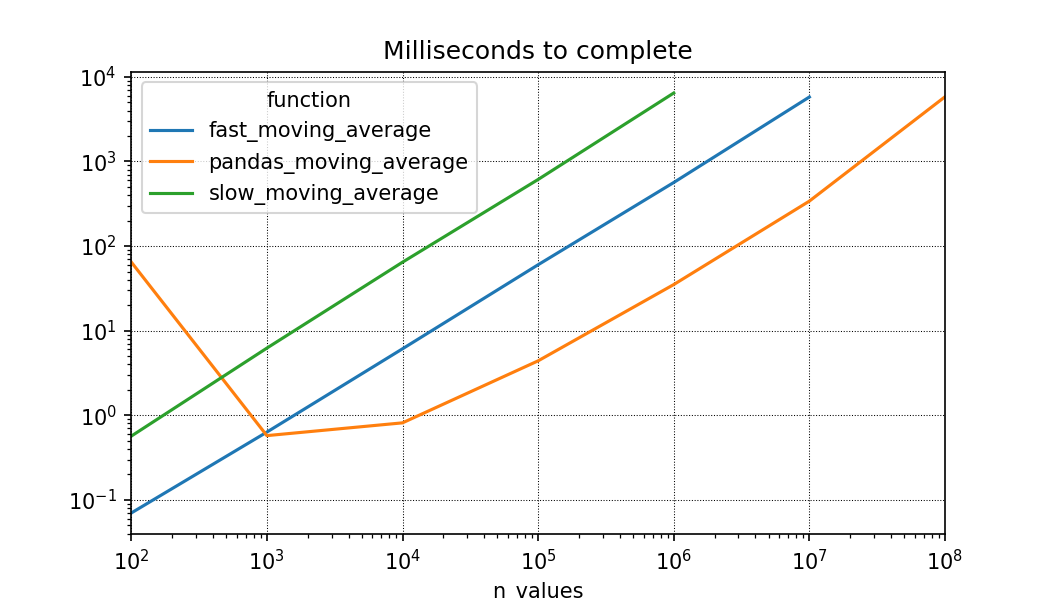
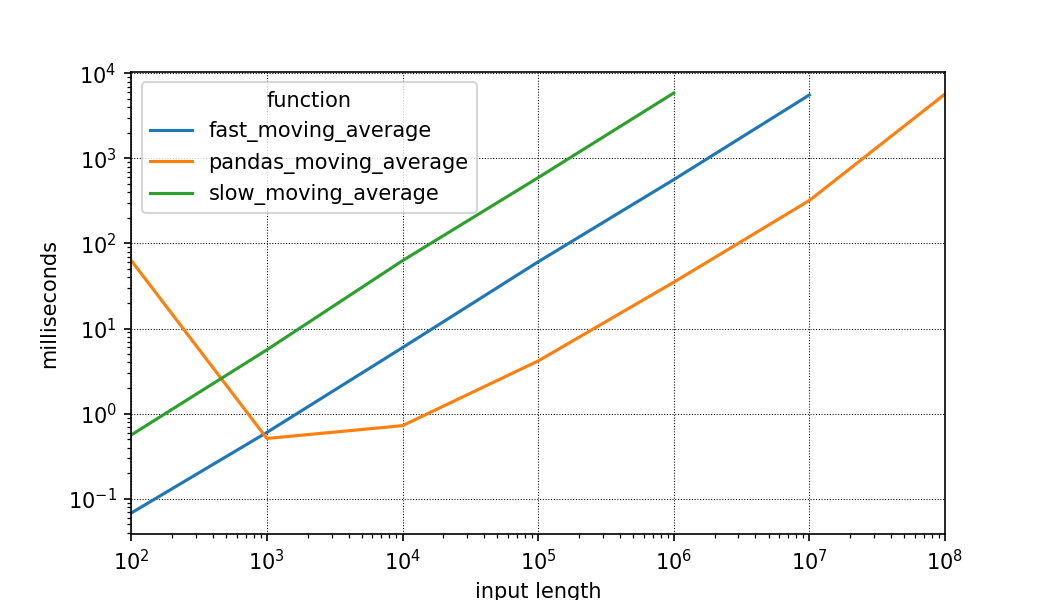
merge

diff --git a/pretty_cool_profiler/pretty_cool_profiler.py b/pretty_cool_profiler/pretty_cool_profiler.py
@@ -60,11 +60,13 @@ def report_results():
         columns='function',
         values='t_milliseconds',
     )
-    pivot_table.plot(
+    ax = pivot_table.plot(
         logx=True,
         logy=True,
         title='Milliseconds to complete',
     )
+    ax.set_ylabel('milliseconds')
+    ax.set_xlabel('input length')
     plt.grid()
     plt.savefig('milliseconds_to_complete.png')
 
@@ -73,11 +75,13 @@ def report_results():
         columns='function',
         values='values_per_ms',
     )
-    pivot_table.plot(
+    ax = pivot_table.plot(
         logx=True,
         logy=True,
         title='Values processed per millisecond',
     )
+    ax.set_ylabel('values per millisecond')
+    ax.set_xlabel('input length')
     plt.grid()
     plt.savefig('values_processed_per_millisecond.png')
     plt.show()
